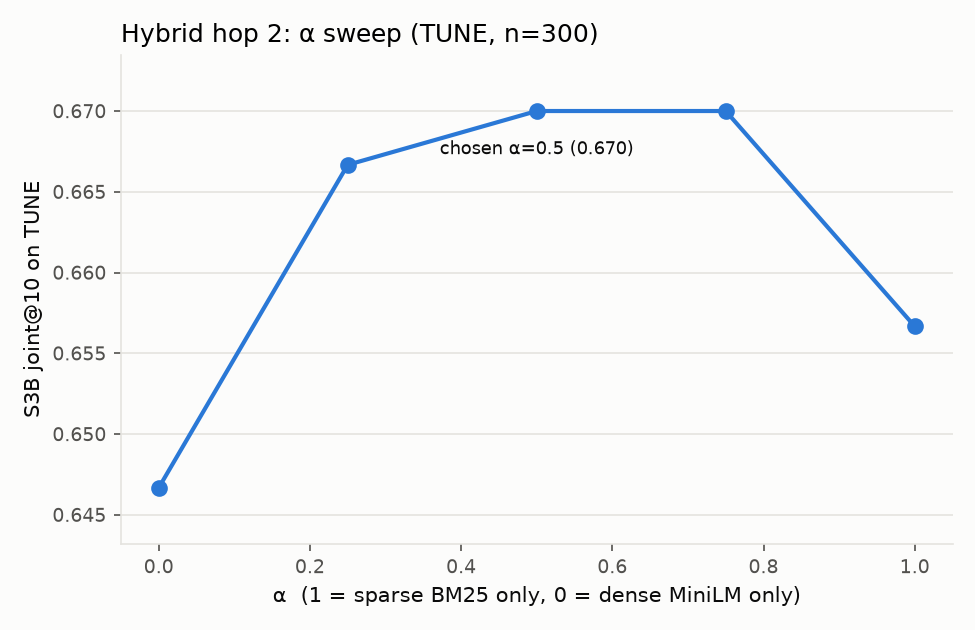
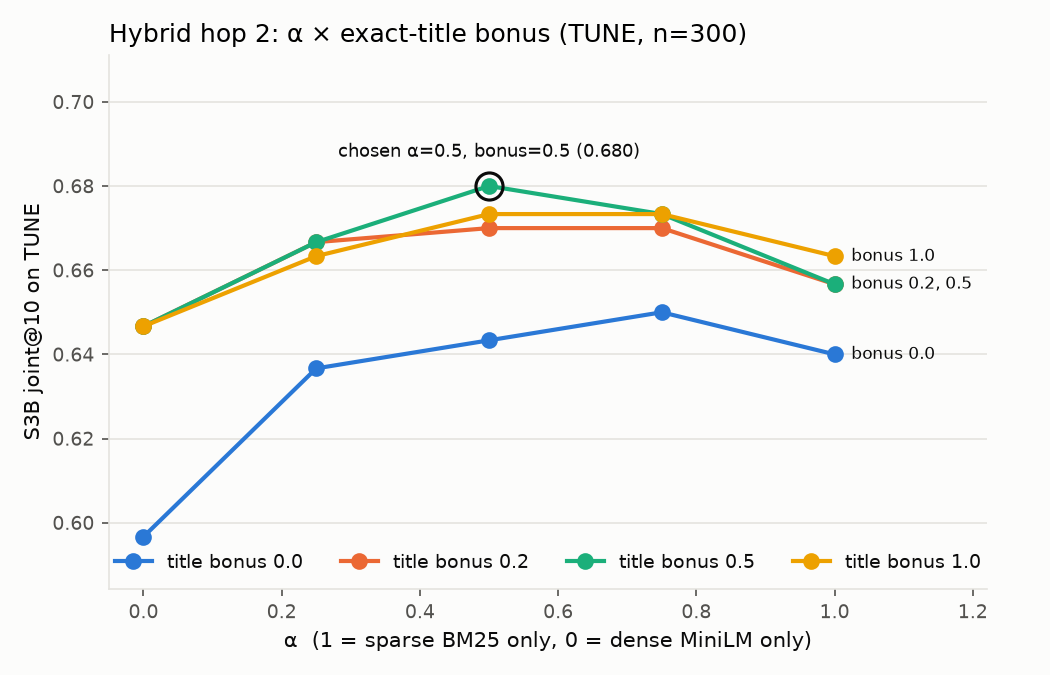
docs(results): refresh plots and summary tables

diff --git a/results/summary.md b/results/summary.md
@@ -9,16 +9,16 @@
 | S2 | 0.649 | 0.128 | 0.807 | 0.707 | 0.653 | – | 0.597 | 0.869 | 13.3 |
 | S3 | 0.705 | 0.340 | 0.817 | 0.802 | 0.732 | 0.459 | 0.661 | 0.890 | 11.0 |
 | S4 | 0.773 | 0.494 | 0.849 | 0.798 | 0.796 | 0.569 | 0.747 | 0.885 | 36.3 |
-| S3B | 0.693 | 0.362 | 0.800 | 0.790 | 0.724 | 0.459 | 0.649 | 0.880 | 32.8 |
-| S5 | 0.768 | 0.491 | 0.847 | 0.784 | 0.791 | 0.569 | 0.743 | 0.874 | 38.4 |
-| S5+chain | 0.768 | 0.491 | 0.847 | 0.784 | 0.791 | 0.569 | 0.743 | 0.874 | 56.2 |
-| S5+combsum | 0.820 | 0.182 | 0.891 | 0.689 | 0.827 | 0.569 | 0.795 | 0.927 | 50.3 |
-| S5+nostem | 0.764 | 0.484 | 0.841 | 0.782 | 0.787 | 0.569 | 0.739 | 0.869 | 51.5 |
-| S5+rrf | 0.778 | 0.164 | 0.863 | 0.663 | 0.798 | 0.569 | 0.748 | 0.906 | 47.4 |
+| S3B | 0.697 | 0.417 | 0.802 | 0.804 | 0.727 | 0.459 | 0.653 | 0.885 | 42.0 |
+| S5 | 0.772 | 0.537 | 0.850 | 0.795 | 0.795 | 0.569 | 0.747 | 0.880 | 30.3 |
+| S5+chain | 0.772 | 0.537 | 0.850 | 0.795 | 0.795 | 0.569 | 0.747 | 0.880 | 42.0 |
+| S5+combsum | 0.835 | 0.215 | 0.900 | 0.711 | 0.839 | 0.569 | 0.811 | 0.937 | 49.4 |
+| S5+nostem | 0.767 | 0.525 | 0.843 | 0.792 | 0.792 | 0.569 | 0.742 | 0.874 | 38.4 |
+| S5+rrf | 0.787 | 0.178 | 0.868 | 0.672 | 0.805 | 0.569 | 0.758 | 0.911 | 53.1 |
 
-Headline: joint@10 0.600 (S0, single-shot BM25) → 0.768 (S5, full system), +0.168 absolute.
+Headline: joint@10 0.600 (S0, single-shot BM25) → 0.772 (S5, full system), +0.172 absolute.
 
-Tuned on TUNE only (300 questions, disjoint from EVAL): W_TITLE=1.0, ALPHA=0.5, LAMBDAS=[0.3, 0.3, 0.4].
+Tuned on TUNE only (300 questions, disjoint from EVAL): W_TITLE=1.0, ALPHA=0.5, TITLE_BONUS=0.5, LAMBDAS=[0.3, 0.3, 0.4].
 
 Systems: S0 single-shot zone BM25 · S0c lnc.ltc cosine · S1 parser + Boolean/free-text hop 1 · S2 S1 + Rocchio PRF · S3 bridge (hand score) + residual + chains, hop-2 BM25 · S4 S3 with the learned bridge ranker · S3B S3 with hybrid hop 2 · S5 learned ranker + hybrid hop 2. `+rrf` / `+combsum` replace the chain-first final ranking; `+nostem` uses the unstemmed index.
 

diff --git a/results/ablation_2x2.md b/results/ablation_2x2.md
@@ -4,7 +4,7 @@ Each cell: joint@10 (all) / joint@10 (bridge questions) / bridge_hit@3 (bridge q
 
 | bridge selection \ hop 2 | BM25 (residual + entity) | hybrid (phrase filter → sparse+dense) |
 |---|---|---|
-| hand score (rule-based) | S3: 0.705 / 0.661 / 0.459 | S3B: 0.693 / 0.649 / 0.459 |
-| learned ranker (LambdaMART) | S4: 0.773 / 0.747 / 0.569 | S5: 0.768 / 0.743 / 0.569 |
+| hand score (rule-based) | S3: 0.705 / 0.661 / 0.459 | S3B: 0.697 / 0.653 / 0.459 |
+| learned ranker (LambdaMART) | S4: 0.773 / 0.747 / 0.569 | S5: 0.772 / 0.747 / 0.569 |
 
 Generated by `python eval/plots.py` from `results/metrics.csv`.
